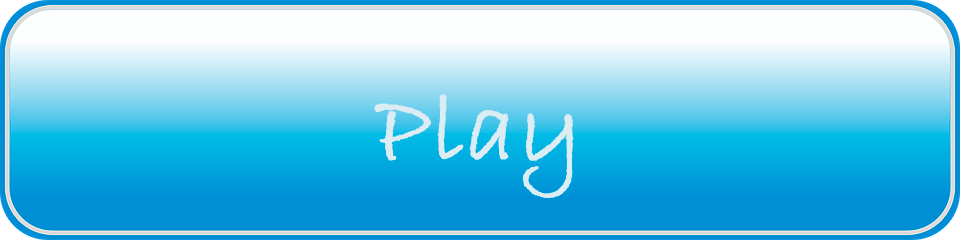
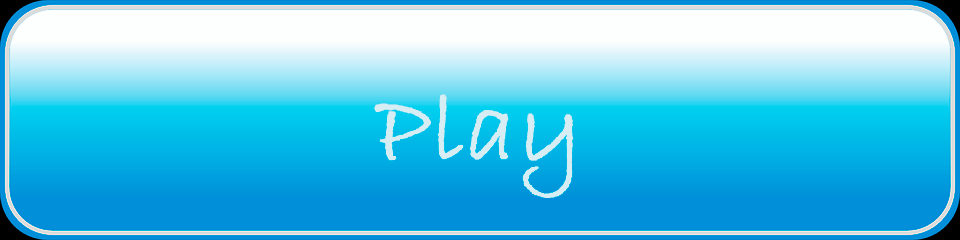
add sound on/off and update picks

diff --git a/main.py b/main.py
@@ -11,6 +11,7 @@ HEIGHT = 600
 SCREEN_RECT = (0, 0, WIDTH, HEIGHT)
 GRAVITY = 2
 COINS = 0
+sound_count = 2
 
 
 def load_image(name, color_key=-1):
@@ -43,7 +44,7 @@ for_mask = pygame.sprite.Group()
 coins = pygame.sprite.Group()
 portals = pygame.sprite.Group()
 tile_images = {
-    'empty': None, 'wall': pygame.transform.scale(load_image('block.jpg'), (100, 100)), 'border': 1}
+    'empty': None, 'wall': pygame.transform.scale(load_image('block2.png'), (100, 100)), 'border': 1}
 sounds = [pygame.mixer.Sound('sounds/menu_music.mp3'),
           pygame.mixer.Sound('sounds/level_music.mp3'),
           pygame.mixer.Sound('sounds/level_music_2.mp3'),
@@ -52,6 +53,15 @@ sounds = [pygame.mixer.Sound('sounds/menu_music.mp3'),
           pygame.mixer.Sound('sounds/level_music_5.mp3'),
           pygame.mixer.Sound('sounds/hit_in_border.mp3')]
 COIN = pygame.mixer.Sound('sounds/coin.mp3')
+
+
+def sound_control():
+    if sound_count % 2 != 0:
+        for sound in sounds:
+            sound.set_volume(0)
+    else:
+        for sound in sounds:
+            sound.set_volume(0.2)
 
 
 class Border(pygame.sprite.Sprite):
@@ -111,7 +121,7 @@ class Coin(pygame.sprite.Sprite):
 class Portal(pygame.sprite.Sprite):
     def __init__(self, pos_x, pos_y):
         super().__init__(portals, all_sprites)
-        self.image = pygame.transform.scale(load_image('portal.jpg'), (80, 100))
+        self.image = pygame.transform.scale(load_image('portal.jpg', None), (80, 100))
         self.rect = self.image.get_rect().move(tile_width * pos_x, tile_height * pos_y)
 
 
@@ -251,48 +261,78 @@ def start_screen():
 
 
 def menu():
+    global sound_count
     background = pygame.transform.scale(load_image('goose2.png', None), (WIDTH, HEIGHT))
     screen.blit(background, (0, 0))
-    image = pygame.transform.scale(load_image('p_button2.png'), (300, 100))
+    image = pygame.transform.scale(load_image('p_button3_1.png'), (320, 80))
+    sound_onoff = pygame.sprite.Sprite(button_sprite)
+    sound_onoff.image = pygame.transform.scale(load_image('sound_on.png', -1), (50, 50))
+    sound_onoff.rect = sound_onoff.image.get_rect()
+    sound_onoff.rect.x, sound_onoff.rect.y = 720, 520
     play_b = pygame.sprite.Sprite(button_sprite)
     play_b.image = image
     play_b.rect = play_b.image.get_rect()
     play_b.rect.x, play_b.rect.y = 50, 50
-    image = pygame.transform.scale(load_image('customize_button.png'), (300, 100))
+    image = pygame.transform.scale(load_image('cust_button3_1.png'), (320, 80))
     custom = pygame.sprite.Sprite(button_sprite)
     custom.image = image
     custom.rect = custom.image.get_rect()
     custom.rect.x, custom.rect.y = 50, 200
-    image = pygame.transform.scale(load_image('question.png'), (50, 50))
+    image = pygame.transform.scale(load_image('question.png'), (100, 100))
     question = pygame.sprite.Sprite(button_sprite)
     question.image = image
     question.rect = question.image.get_rect()
-    question.rect.x, question.rect.y = 750, 0
+    question.rect.x, question.rect.y = 720, -30
     running = True
     while running:
+        sound_control()
+        screen.blit(background, (0, 0))
         for event in pygame.event.get():
             if event.type == pygame.QUIT:
                 terminate()
+            if event.type == pygame.MOUSEMOTION:
+                x, y = event.pos
+                if play_b.rect.x < x < play_b.rect.x + 320 and \
+                        play_b.rect.y < y < play_b.rect.y + 80:
+                    play_b.image = pygame.transform.scale(load_image('p_button3_2.png'), (320, 80))
+                else:
+                    play_b.image = pygame.transform.scale(load_image('p_button3_1.png'), (320, 80))
+                if custom.rect.x < x < custom.rect.x + 320 and \
+                        custom.rect.y < y < custom.rect.y + 80:
+                    custom.image = pygame.transform.scale(load_image('cust_button3_2.png'), (320, 80))
+                else:
+                    custom.image = pygame.transform.scale(load_image('cust_button3_1.png'), (320, 80))
+
             if event.type == pygame.MOUSEBUTTONDOWN:
                 x, y = event.pos
-                if play_b.rect.x < x < play_b.rect.x + 300 and \
-                        play_b.rect.y < y < play_b.rect.y + 100:
+                if play_b.rect.x < x < play_b.rect.x + 320 and \
+                        play_b.rect.y < y < play_b.rect.y + 80:
                     play_b.kill()
                     custom.kill()
                     question.kill()
+                    sound_onoff.kill()
                     play()
-                elif custom.rect.x < x < custom.rect.x + 300 and \
-                        custom.rect.y < y < custom.rect.y + 100:
+                elif custom.rect.x < x < custom.rect.x + 320 and \
+                        custom.rect.y < y < custom.rect.y + 80:
                     play_b.kill()
                     custom.kill()
                     question.kill()
+                    sound_onoff.kill()
                     customizing()
-                elif question.rect.x < x < question.rect.x + 50 and \
-                        question.rect.y < y < question.rect.y + 50:
+                elif question.rect.x < x < question.rect.x + 100 and \
+                        question.rect.y < y < question.rect.y + 100:
                     play_b.kill()
                     custom.kill()
                     question.kill()
+                    sound_onoff.kill()
                     description()
+                elif sound_onoff.rect.x < x < sound_onoff.rect.x + 50 and \
+                        sound_onoff.rect.y < y < sound_onoff.rect.y + 50:
+                    sound_count += 1
+            if sound_count % 2 != 0:
+                sound_onoff.image = pygame.transform.scale(load_image('sound_off.png'), (50, 50))
+            else:
+                sound_onoff.image = pygame.transform.scale(load_image('sound_on.png'), (50, 50))
         button_sprite.draw(screen)
         pygame.display.flip()
 
@@ -396,6 +436,7 @@ def start_level(level_name):
     num = random.randint(1, 5)
     sounds[num].play(loops=-1)
     sounds[num].set_volume(0.1)
+    sound_control()
     level_running = True
     player, level_x, level_y = generate_level(load_level(level_name))
     camera = Camera((level_x, level_y))
@@ -502,6 +543,7 @@ def game_over(level_name, num):
     sounds[num].stop()
     sounds[-1].play()
     sounds[-1].set_volume(0.2)
+    sound_control()
     background = pygame.transform.scale(load_image('game_over.png', None), (WIDTH, HEIGHT))
     screen.blit(background, (0, 0))
     for sprite in all_sprites:
